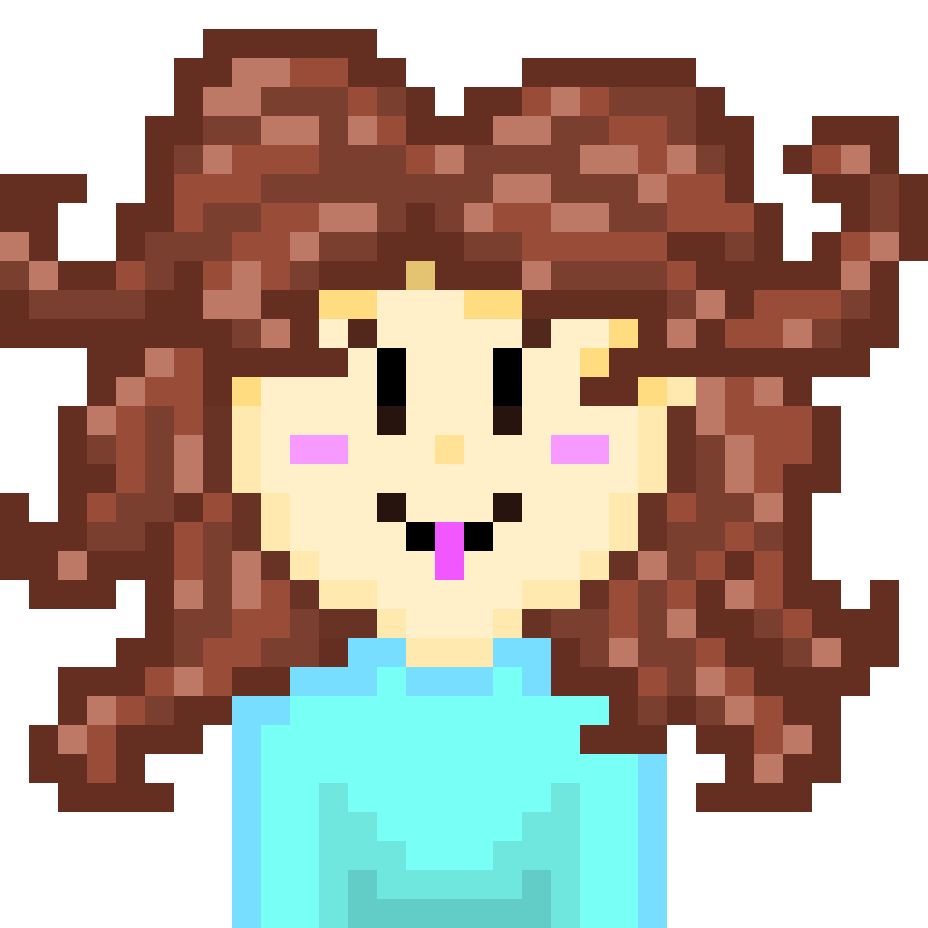
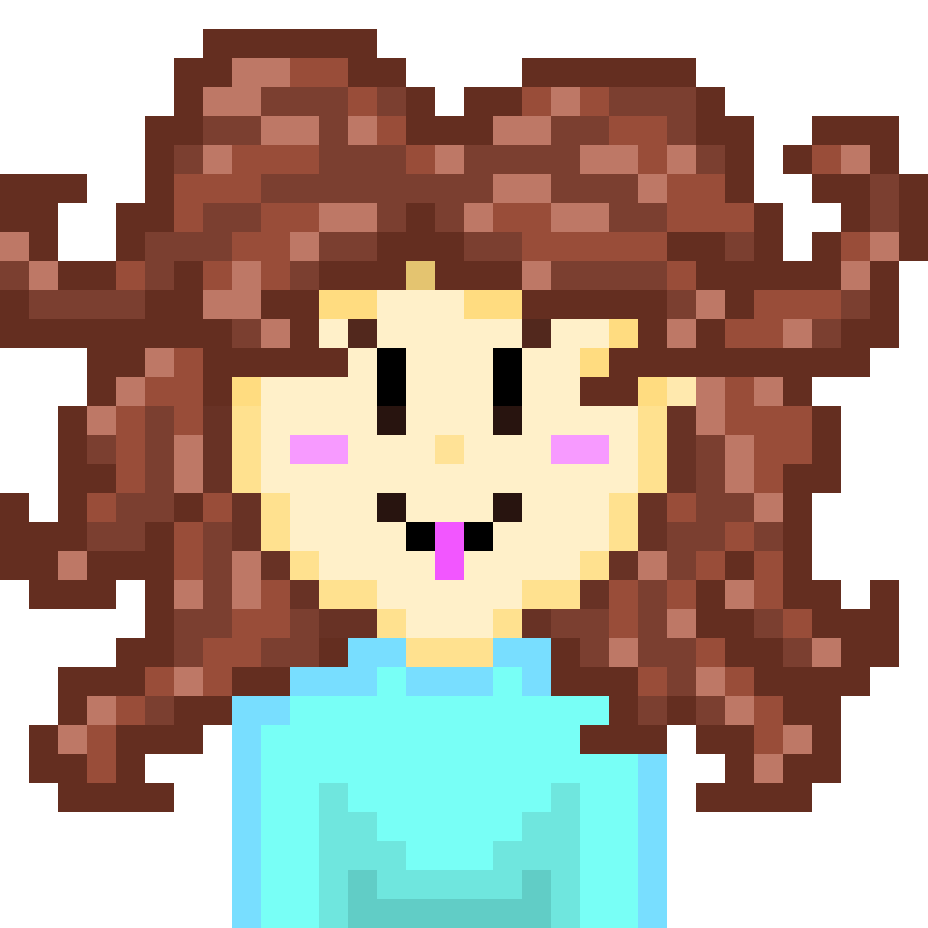
Add left and right arrow gifs to index.html and update pixel profile pic in profile.html

diff --git a/index.html b/index.html
@@ -25,7 +25,8 @@
                 </button>
             </a>
         </div>
-        <img src="./arrow-animation.gif" class="arrow-gif" alt="arrow">
+        <img src="./arrow-animation-left2.gif" class="arrow-gif" id="arrow-left" alt="arrow">
+        <img src="./arrow-animation-right2.gif" class="arrow-gif" id="arrow-right" alt="arrow">
     </div>
 </body>
 </html>

diff --git a/styles.css b/styles.css
@@ -39,7 +39,14 @@ body {
     position: absolute;
     height: 6vw;
     bottom: 0.5vw;
-    left: 6vw;
+}
+
+#arrow-left {
+    left: 6.5vw;
+}
+
+#arrow-right {
+    right: 6.5vw;
 }
 
 #start-button-container {
